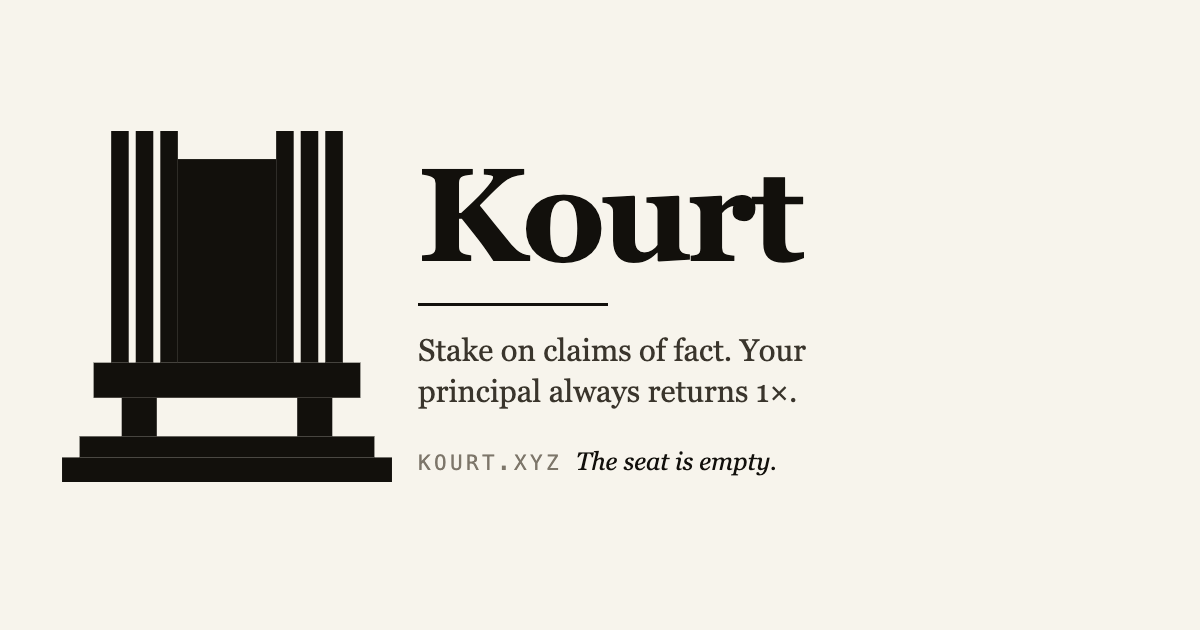
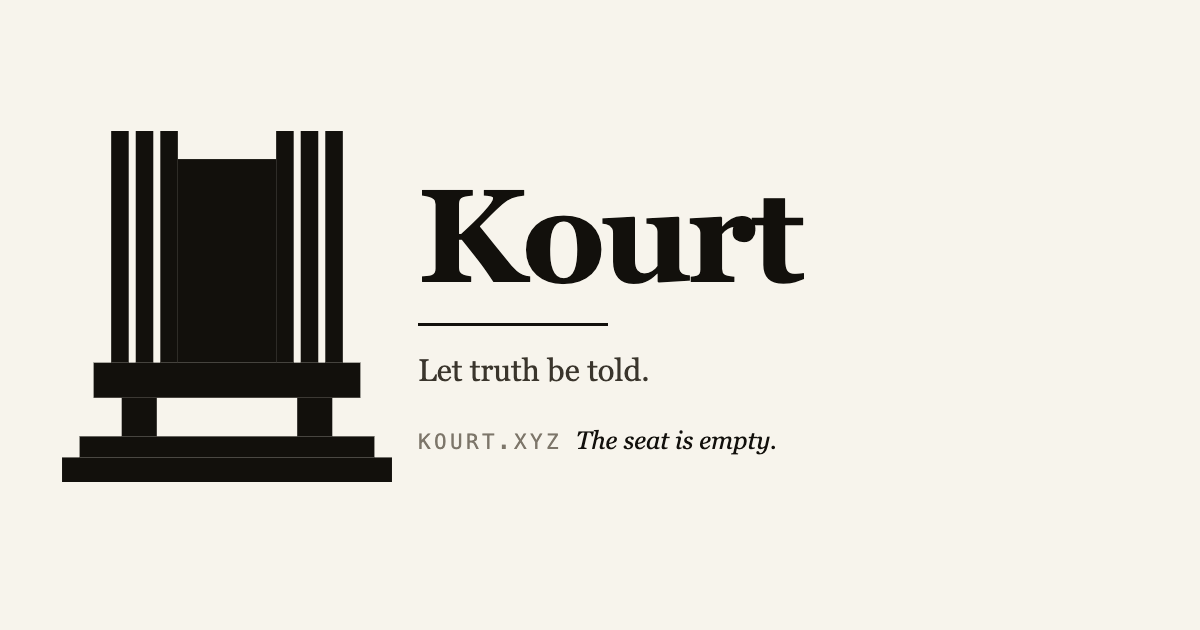
feat: the line is "Let truth be told."
Replaces "Stake on claims of fact. Your principal always returns 1×." in the
three places that carry the platform's own line: the overlay's rail, the demo
mirror of the realm's root Render, and the link-preview card.

The realm says it too — renderDirectory writes the same sentence at the head of
the chain's own front page — so that changes with it, and the pair is pinned in
check-web-constants.PHRASES. Nothing was watching those two before, which is how
a chain page and the site over it end up introducing the same product with two
different sentences.

The mechanics the old line stated are not lost: the directory page and the "New
here?" box both still say the principal always returns 1×, which is where a
reader meets it before staking rather than in a slogan.

Only the tagline hunks of web/index.html are in this commit — the working tree
also holds another session's in-progress removal of the quality lane, which is
left alone.

Changed region(s): [[0.3392, 0.2714, 0.6783, 0.4524], [0.3392, 0.4825, 0.6783, 0.6635], [0.3392, 0.6937, 0.6475, 0.754]]

diff --git a/web/index.html b/web/index.html
@@ -1543,7 +1543,7 @@ table.data td.num{text-align:right; font-variant-numeric:tabular-nums; font-fami
       </svg></span>
       <span><h1>Kourt</h1></span>
     </a>
-    <div class="tag">Stake on claims of fact. Your principal always returns 1×.</div>
+    <div class="tag">Let truth be told.</div>
   </div>
   <nav class="nav" id="nav">
     <a href="#/" data-k="dir"><span class="g">▤</span> Directory</a>
@@ -10677,7 +10677,7 @@ on(/^\/about$/, async ()=>{
 function demoRender(path){
   const parts = path.split("/");
   if(path===""||path==="/"){
-    let o="# Kourt\n\nStake on claims of fact. Your principal always returns 1×.\n\n## Featured\n\n";
+    let o="# Kourt\n\nLet truth be told.\n\n## Featured\n\n";
     for(const [slug,c] of Object.entries(DEMO.courts)) if(c.tier===2) o+=`- [${c.name}](/r/kourt/kourtv2:${slug}) · ${slug.toUpperCase()} — ${c.claims.length} claims\n`;
     o+="\n## Courts\n\n";
     for(const [slug,c] of Object.entries(DEMO.courts)) if(c.tier===1) o+=`- [${c.name}](/r/kourt/kourtv2:${slug}) · ${slug.toUpperCase()} — ${c.claims.length} claims\n`;

diff --git a/scripts/make-og-card.js b/scripts/make-og-card.js
@@ -63,7 +63,7 @@ const CARD = `<!doctype html><meta charset="utf-8"><style>
 <div class="txt">
   <h1>Kourt</h1>
   <div class="rule"></div>
-  <p>Stake on claims of fact. Your principal always returns 1&times;.</p>
+  <p>Let truth be told.</p>
   <div class="foot"><span>kourt.xyz</span><span class="said">The seat is empty.</span></div>
 </div>`;
 

diff --git a/scripts/check-web-constants.py b/scripts/check-web-constants.py
@@ -59,6 +59,12 @@ MIRRORS = {
 # offering to sell coin to somebody it cannot help. So the clause is pinned.
 PHRASES = {
     "you had none when this vote started": "realm/r/kourtv2/voteweight.gno",
+    # The platform's own line. It is the first thing on the realm's Render and
+    # the first thing in the overlay's rail, and until this entry existed there
+    # was nothing to notice when one of them was rewritten — which is how a
+    # chain page and the site over it end up introducing the same product with
+    # two different sentences.
+    "Let truth be told.": "realm/r/kourtv2/render.gno",
 }
 
 # web symbol -> (the call the realm counts it with, the call the overlay does)
